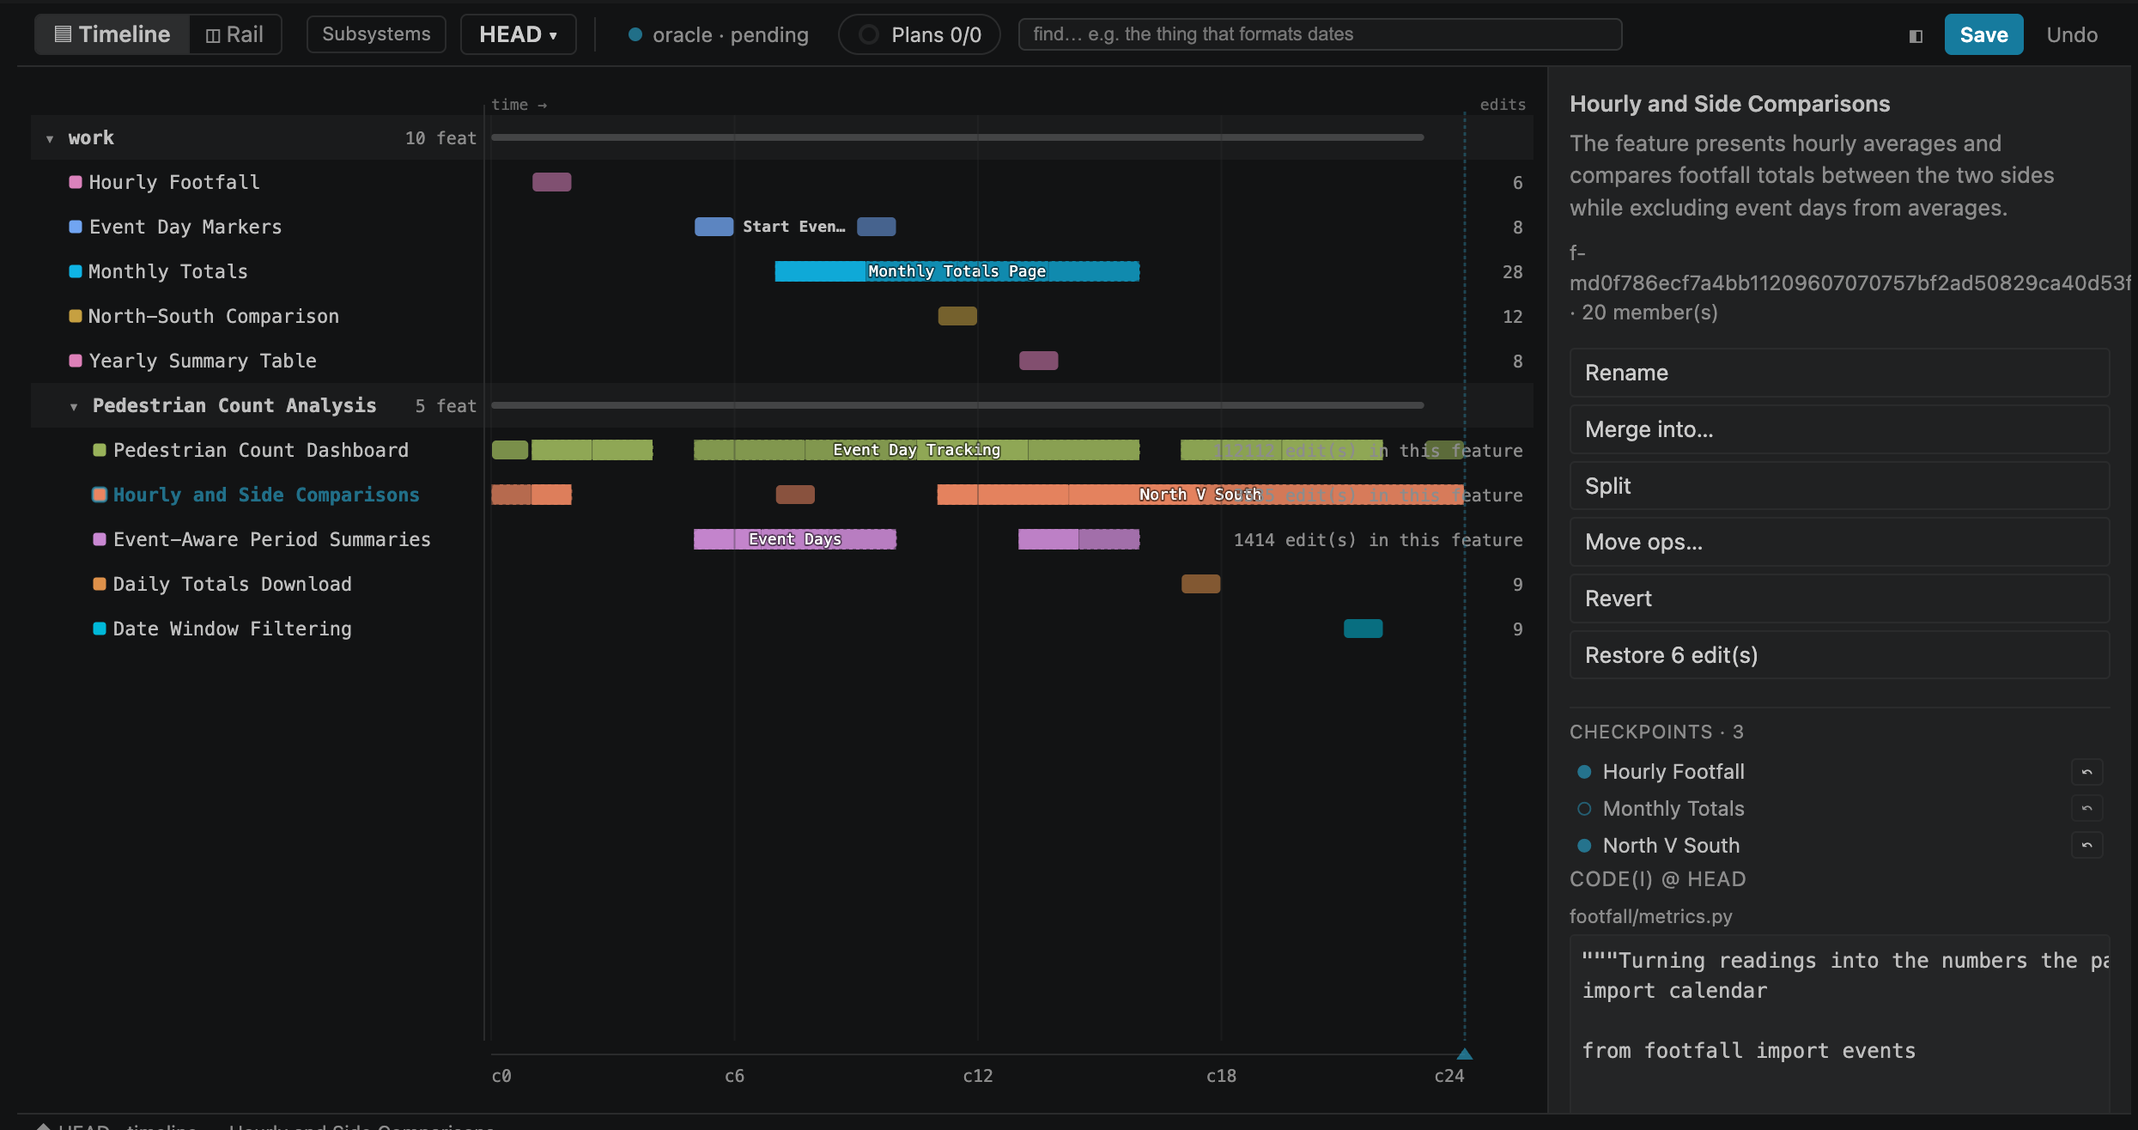
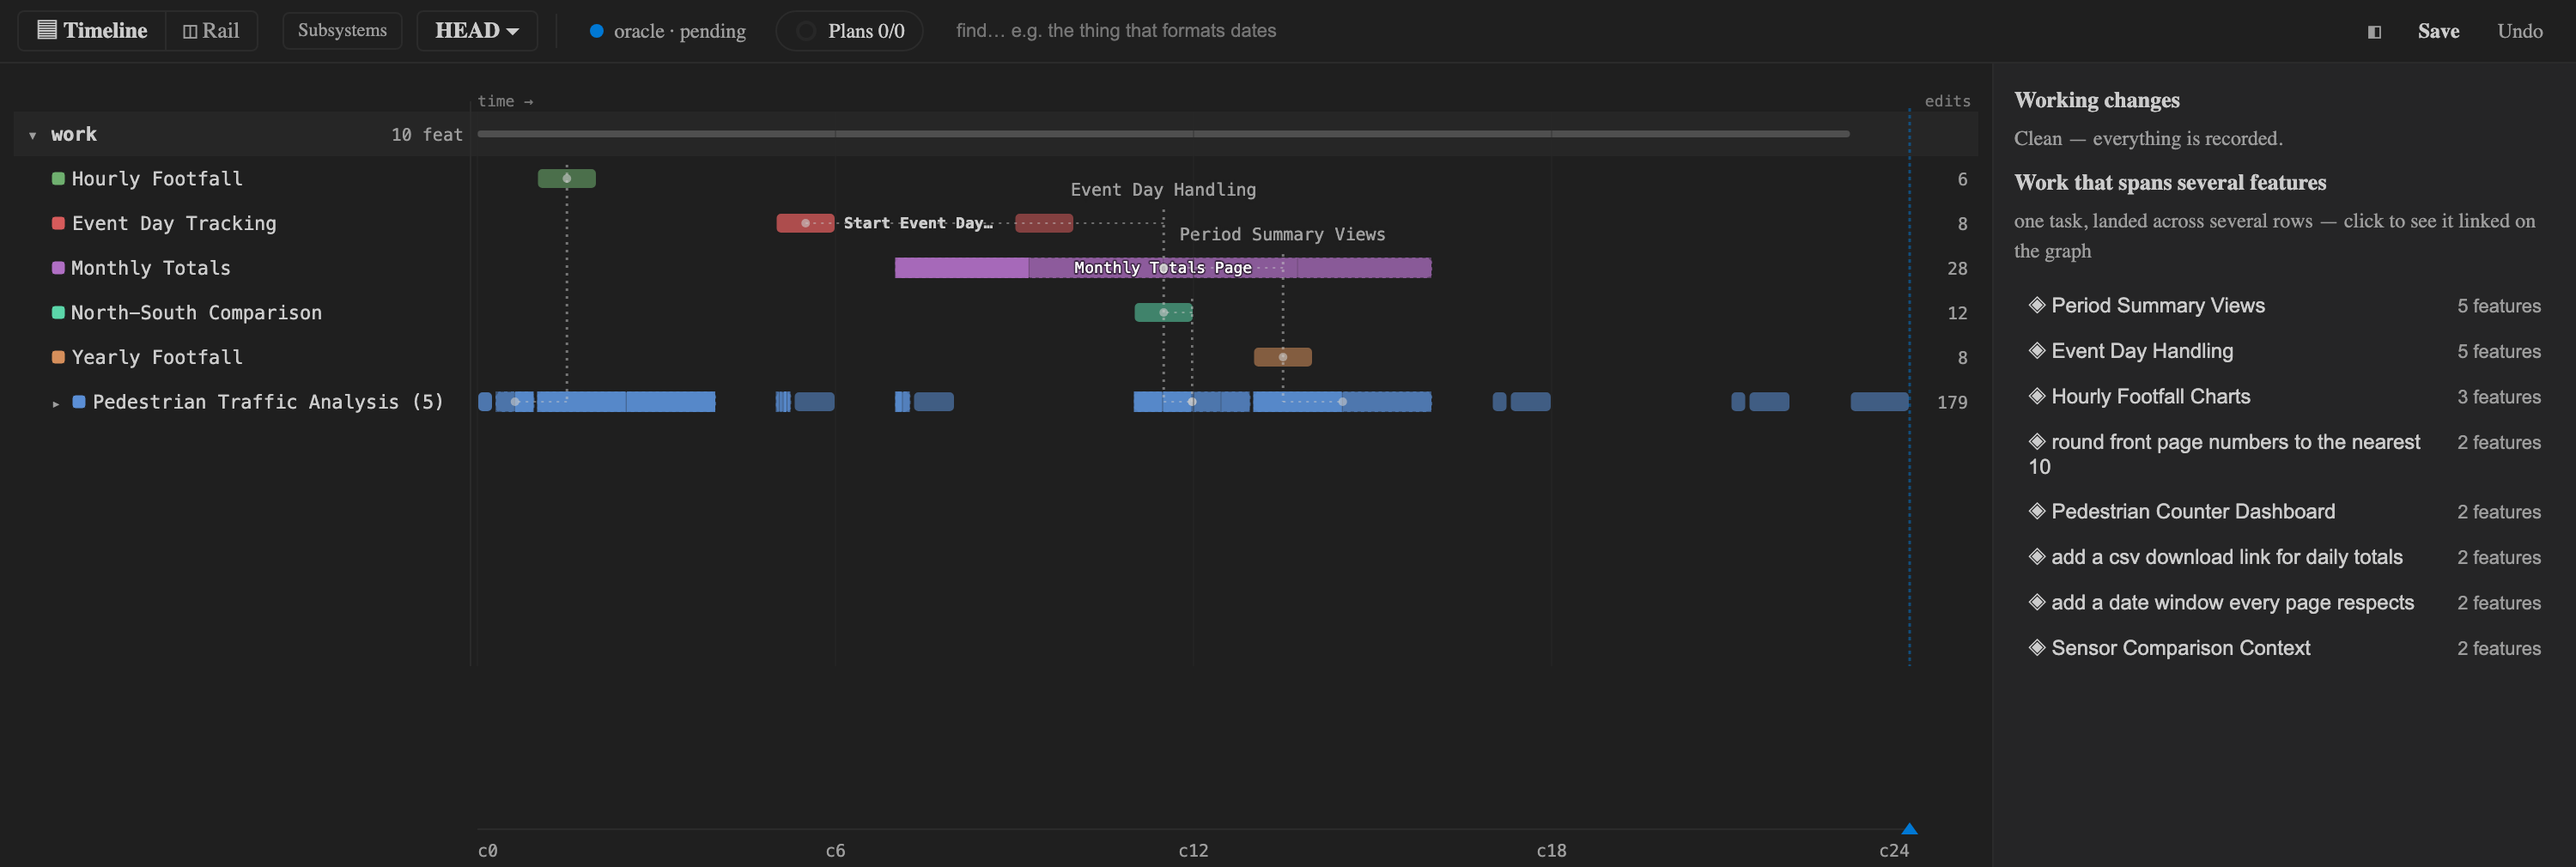
study: two nouns only, the spine-aware tutorial shot, and labels frozen across builds
Participant vocabulary is feature + checkpoint, nothing else: the
tutorial's third bullet became a sentence ('one piece of work can land
on several features at once -- the views draw those checkpoints linked,
and revert/restore take that name'), the workbench reading key points
at the dotted spine, stage 3's text points at the ◆ row and the spine,
and every 'group' noun is gone from participant text. The tutorial
screenshot is regenerated from the real footfall bundle rendered
through the real webview, spines visible.

make-study-bundle now copies the staging rebuild's LLM caches
(label_cache, intent_cache) back to the source repo after a successful
build, so the next rebuild is a cache hit and names stop re-rolling per
publish; the source repos were seeded from the currently served
bundles so this publish keeps today's names.

diff --git a/web/src/study/content.ts b/web/src/study/content.ts
@@ -307,13 +307,13 @@ const SGT_OPENING = `
 
 \`sgt\` works on top of a Git repository. It organizes history around the parts of the project, not around commits.
 
-Three words appear throughout the interface, and every view draws the same picture with them:
+Two words appear throughout the interface, and every view draws the same picture with them:
 
 A **feature** is one part of the project, such as "hourly charts." Each feature is one row in the history views.
 
 A **checkpoint** is one stretch of work on one feature, such as "split weekday and weekend averages." Checkpoints are the blocks along a feature's row. Some screens call them **chapters**.
 
-A **group** is one piece of work that touched several features at once — one task, landed across rows. \`sgt log\` names the groups under the map, and revert and restore take a group's name directly.
+One piece of work can land on several features at once. The views draw those checkpoints linked together with one name for the whole thing, and \`sgt revert\` and \`sgt restore\` take that name directly.
 
 This practice covers the commands used in the timed stages. Most commands also print suggested next steps.
 `
@@ -334,7 +334,7 @@ The **workbench** panel at the bottom is the history as a map:
 - One row per **feature**; the row's colour is that feature's identity everywhere in the panel.
 - The blocks along a row are its **checkpoints**. Hover one to see its name; click it to select it.
 - A hollow block is work that was reverted. A dashed block right of the "now" line is work on disk that has not been saved yet.
-- The panel's detail pane lists the **groups** that span several features; clicking one shows it across the rows.
+- A thin dotted vertical line links blocks that belong to one piece of work across several rows. Hover it for the name; click it to see (and revert) the whole thing.
 
 You can click features and checkpoints to inspect them, and right-click for actions such as **Revert** and **Restore**.
 
@@ -395,9 +395,9 @@ sgt find "the bit that works out the averages"
 
 The results can include functions, features, and individual saves.
 
-The search box in the workbench performs the same kind of search — it also finds saves by their message or hash, and groups by their name.
+The search box in the workbench performs the same kind of search — it also finds saves by their message or hash, and cross-feature work by its name.
 
-To open one feature or group — the map stays, and its checkpoints are listed underneath with their handles:
+To open one feature — or one piece of cross-feature work — with the map still on screen and its checkpoints listed underneath:
 
 \`\`\`
 sgt log --focus "<name>"
@@ -409,7 +409,7 @@ A checkpoint handle looks like:
 f-08915a9f@1
 \`\`\`
 
-The third timed stage refers to one of the groups \`sgt log\` names under the map.
+The third timed stage refers to one of the ◆ rows \`sgt log\` draws under the lanes — one piece of work across several features.
 
 ## 4. Remove work and restore it
 

diff --git a/web/src/study/tasks.ts b/web/src/study/tasks.ts
@@ -477,7 +477,7 @@ Run the command below first. It resets the project and prints the two numbers th
       sgt: [
         '`sgt log` shows the history grouped by feature; `sgt log --rail` lists what happened, newest first.',
         '`sgt find "the bit that works out the averages"` searches by description. Any wording will do.',
-        '`sgt log --focus "<name>"` opens one feature or group: the map stays, its chapters are listed underneath.',
+        '`sgt log --focus "<name>"` opens one feature — or one ◆ piece of cross-feature work: the map stays, its chapters are listed underneath.',
       ],
     },
     run: {

diff --git a/docs/study/materials/02-tutorial-sgt-bikecount.md b/docs/study/materials/02-tutorial-sgt-bikecount.md
@@ -6,13 +6,13 @@ Take a few minutes to practice on the project before the timed stages begin. You
 
 `sgt` works on top of a Git repository. It organizes history around the parts of the project, not around commits.
 
-Three words appear throughout the interface, and every view draws the same picture with them:
+Two words appear throughout the interface, and every view draws the same picture with them:
 
 A **feature** is one part of the project, such as "hourly charts." Each feature is one row in the history views.
 
 A **checkpoint** is one stretch of work on one feature, such as "split weekday and weekend averages." Checkpoints are the blocks along a feature's row. Some screens call them **chapters**.
 
-A **group** is one piece of work that touched several features at once — one task, landed across rows. `sgt log` names the groups under the map, and revert and restore take a group's name directly.
+One piece of work can land on several features at once. The views draw those checkpoints linked together with one name for the whole thing, and `sgt revert` and `sgt restore` take that name directly.
 
 This practice covers the commands used in the timed stages. Most commands also print suggested next steps.
 
@@ -94,7 +94,7 @@ The **workbench** panel at the bottom is the history as a map:
 - One row per **feature**; the row's colour is that feature's identity everywhere in the panel.
 - The blocks along a row are its **checkpoints**. Hover one to see its name; click it to select it.
 - A hollow block is work that was reverted. A dashed block right of the "now" line is work on disk that has not been saved yet.
-- The panel's detail pane lists the **groups** that span several features; clicking one shows it across the rows.
+- A thin dotted vertical line links blocks that belong to one piece of work across several rows. Hover it for the name; click it to see (and revert) the whole thing.
 
 You can click features and checkpoints to inspect them, and right-click for actions such as **Revert** and **Restore**.
 
@@ -155,9 +155,9 @@ sgt find "the bit that works out the averages"
 
 The results can include functions, features, and individual saves.
 
-The search box in the workbench performs the same kind of search — it also finds saves by their message or hash, and groups by their name.
+The search box in the workbench performs the same kind of search — it also finds saves by their message or hash, and cross-feature work by its name.
 
-To open one feature or group — the map stays, and its checkpoints are listed underneath with their handles:
+To open one feature — or one piece of cross-feature work — with the map still on screen and its checkpoints listed underneath:
 
 ```
 sgt log --focus "<name>"
@@ -169,7 +169,7 @@ A checkpoint handle looks like:
 f-08915a9f@1
 ```
 
-The third timed stage refers to one of the groups `sgt log` names under the map.
+The third timed stage refers to one of the ◆ rows `sgt log` draws under the lanes — one piece of work across several features.
 
 ## 4. Remove work and restore it
 

diff --git a/docs/study/materials/02-tutorial-sgt-footfall.md b/docs/study/materials/02-tutorial-sgt-footfall.md
@@ -6,13 +6,13 @@ Take a few minutes to practice on the project before the timed stages begin. You
 
 `sgt` works on top of a Git repository. It organizes history around the parts of the project, not around commits.
 
-Three words appear throughout the interface, and every view draws the same picture with them:
+Two words appear throughout the interface, and every view draws the same picture with them:
 
 A **feature** is one part of the project, such as "hourly charts." Each feature is one row in the history views.
 
 A **checkpoint** is one stretch of work on one feature, such as "split weekday and weekend averages." Checkpoints are the blocks along a feature's row. Some screens call them **chapters**.
 
-A **group** is one piece of work that touched several features at once — one task, landed across rows. `sgt log` names the groups under the map, and revert and restore take a group's name directly.
+One piece of work can land on several features at once. The views draw those checkpoints linked together with one name for the whole thing, and `sgt revert` and `sgt restore` take that name directly.
 
 This practice covers the commands used in the timed stages. Most commands also print suggested next steps.
 
@@ -94,7 +94,7 @@ The **workbench** panel at the bottom is the history as a map:
 - One row per **feature**; the row's colour is that feature's identity everywhere in the panel.
 - The blocks along a row are its **checkpoints**. Hover one to see its name; click it to select it.
 - A hollow block is work that was reverted. A dashed block right of the "now" line is work on disk that has not been saved yet.
-- The panel's detail pane lists the **groups** that span several features; clicking one shows it across the rows.
+- A thin dotted vertical line links blocks that belong to one piece of work across several rows. Hover it for the name; click it to see (and revert) the whole thing.
 
 You can click features and checkpoints to inspect them, and right-click for actions such as **Revert** and **Restore**.
 
@@ -155,9 +155,9 @@ sgt find "the bit that works out the averages"
 
 The results can include functions, features, and individual saves.
 
-The search box in the workbench performs the same kind of search — it also finds saves by their message or hash, and groups by their name.
+The search box in the workbench performs the same kind of search — it also finds saves by their message or hash, and cross-feature work by its name.
 
-To open one feature or group — the map stays, and its checkpoints are listed underneath with their handles:
+To open one feature — or one piece of cross-feature work — with the map still on screen and its checkpoints listed underneath:
 
 ```
 sgt log --focus "<name>"
@@ -169,7 +169,7 @@ A checkpoint handle looks like:
 f-08915a9f@1
 ```
 
-The third timed stage refers to one of the groups `sgt log` names under the map.
+The third timed stage refers to one of the ◆ rows `sgt log` draws under the lanes — one piece of work across several features.
 
 ## 4. Remove work and restore it
 

diff --git a/docs/study/materials/03-tasks-bikecount-sgt.md b/docs/study/materials/03-tasks-bikecount-sgt.md
@@ -72,7 +72,7 @@ Commands that may help:
 
 - `sgt log` shows the history grouped by feature; `sgt log --rail` lists what happened, newest first.
 - `sgt find "the bit that works out the averages"` searches by description. Any wording will do.
-- `sgt log --focus "<name>"` opens one feature or group: the map stays, its chapters are listed underneath.
+- `sgt log --focus "<name>"` opens one feature — or one ◆ piece of cross-feature work: the map stays, its chapters are listed underneath.
 
 ## Stage 3: Take that work out
 

diff --git a/docs/study/materials/03-tasks-footfall-sgt.md b/docs/study/materials/03-tasks-footfall-sgt.md
@@ -72,7 +72,7 @@ Commands that may help:
 
 - `sgt log` shows the history grouped by feature; `sgt log --rail` lists what happened, newest first.
 - `sgt find "the bit that works out the averages"` searches by description. Any wording will do.
-- `sgt log --focus "<name>"` opens one feature or group: the map stays, its chapters are listed underneath.
+- `sgt log --focus "<name>"` opens one feature — or one ◆ piece of cross-feature work: the map stays, its chapters are listed underneath.
 
 ## Stage 3: Take that work out
 
